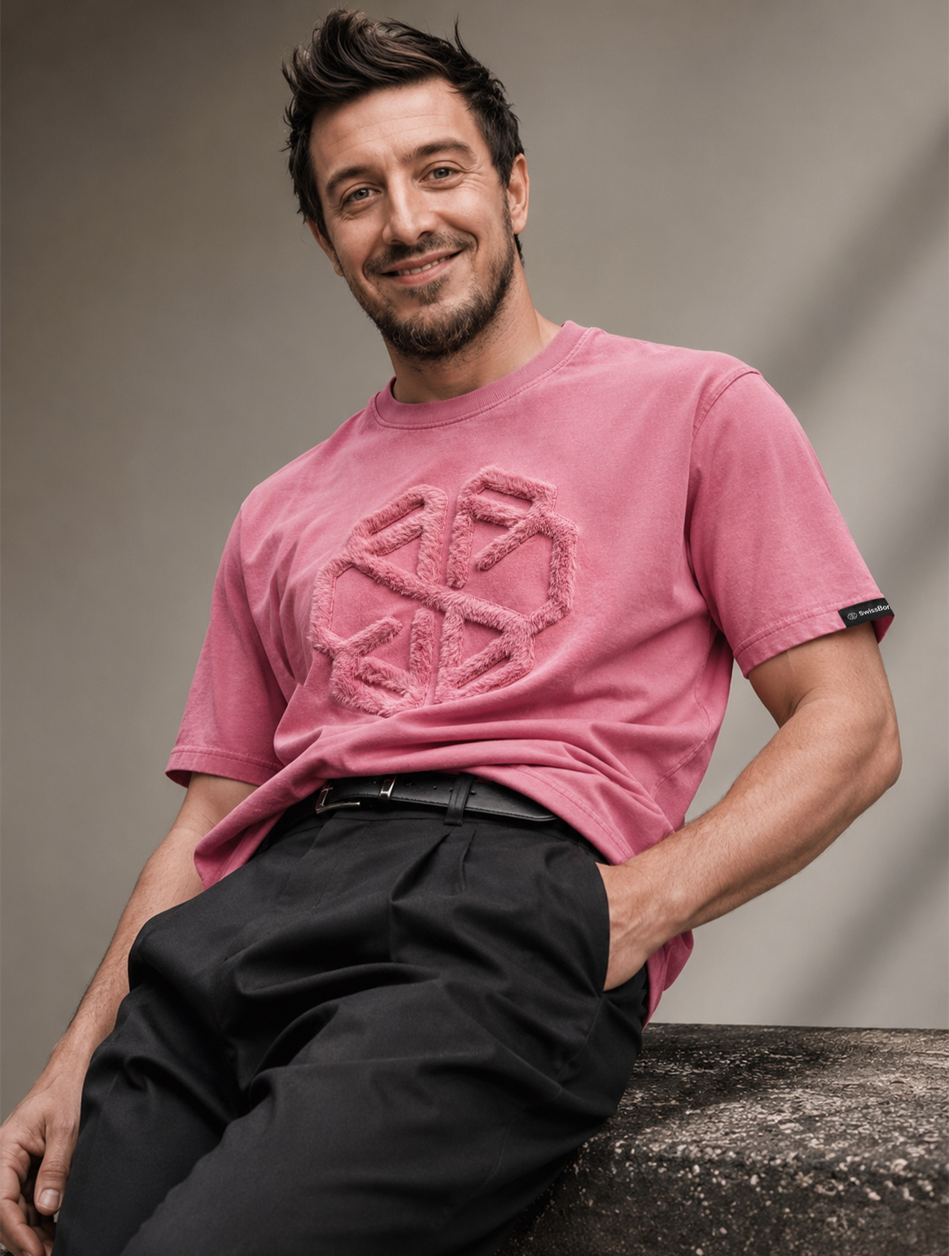
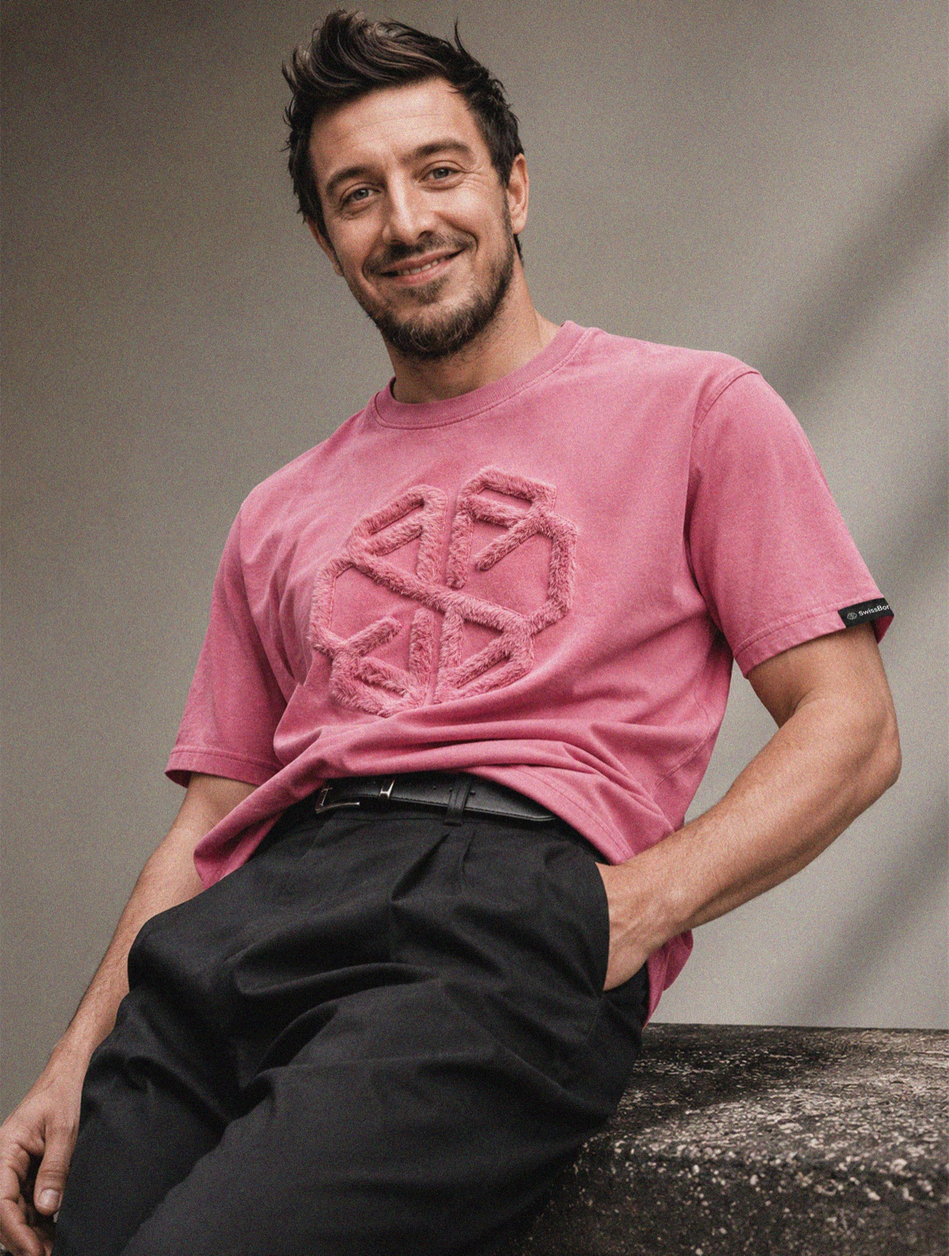
Slow brand morph and perks sparkle, swap to alex produt page asset, recompress prod 1 landing

diff --git a/src/app/globals.css b/src/app/globals.css
@@ -107,7 +107,7 @@ h1, h2, h3, h4, .display {
 
 .spin-reveal {
   transform-origin: 50% 50%;
-  animation: spinReveal 1400ms cubic-bezier(0.22, 1, 0.36, 1) both;
+  animation: spinReveal 2400ms cubic-bezier(0.22, 1, 0.36, 1) both;
 }
 @keyframes spinReveal {
   0%   { transform: rotate(-360deg) scale(0.4); opacity: 0; }
@@ -119,7 +119,7 @@ h1, h2, h3, h4, .display {
 }
 
 /* SwissBorg wordmark dissolves out — smooth fade + subtle chromatic flicker + slight scale-down */
-.glitch-out { animation: glitchOut 1100ms cubic-bezier(0.4, 0, 0.2, 1) both; }
+.glitch-out { animation: glitchOut 1800ms cubic-bezier(0.4, 0, 0.2, 1) both; }
 @keyframes glitchOut {
   0%   { opacity: 1; transform: translateX(0) scale(1); filter: none; }
   35%  { opacity: 0.9; transform: translateX(-2px) scale(1); filter: drop-shadow(1.5px 0 0 #ff003c) drop-shadow(-1.5px 0 0 #00f0ff); }
@@ -128,7 +128,7 @@ h1, h2, h3, h4, .display {
 }
 
 /* BorgShop wordmark reconstructs — smooth fade in + subtle chromatic flicker, starts after the out begins */
-.glitch-in { animation: glitchIn 1200ms cubic-bezier(0.4, 0, 0.2, 1) 750ms both; }
+.glitch-in { animation: glitchIn 2000ms cubic-bezier(0.4, 0, 0.2, 1) 1300ms both; }
 @keyframes glitchIn {
   0%   { opacity: 0; transform: translateX(-3px) scale(0.96); filter: blur(1.5px); }
   30%  { opacity: 0.5; transform: translateX(2px) scale(0.99); filter: drop-shadow(-1.5px 0 0 #00f0ff) drop-shadow(1.5px 0 0 #ff003c); }

diff --git a/src/lib/products.ts b/src/lib/products.ts
@@ -55,21 +55,21 @@ export const PRODUCTS: Product[] = [
         name: "Faded Rose",
         hex: "#BD7C8B",
         image: "/prod%201%20landing.jpg",
-        mainImage: "/alex%20fulll.jpg",
+        mainImage: "/alex%20produt%20page.jpg",
       },
       {
         id: "midnight",
         name: "Midnight",
         hex: "#191E29",
         image: "/prod%201%20landing.jpg",
-        mainImage: "/alex%20fulll.jpg",
+        mainImage: "/alex%20produt%20page.jpg",
       },
       {
         id: "stone",
         name: "Stone",
         hex: "#C7BFAF",
         image: "/prod%201%20landing.jpg",
-        mainImage: "/alex%20fulll.jpg",
+        mainImage: "/alex%20produt%20page.jpg",
       },
     ],
   },
